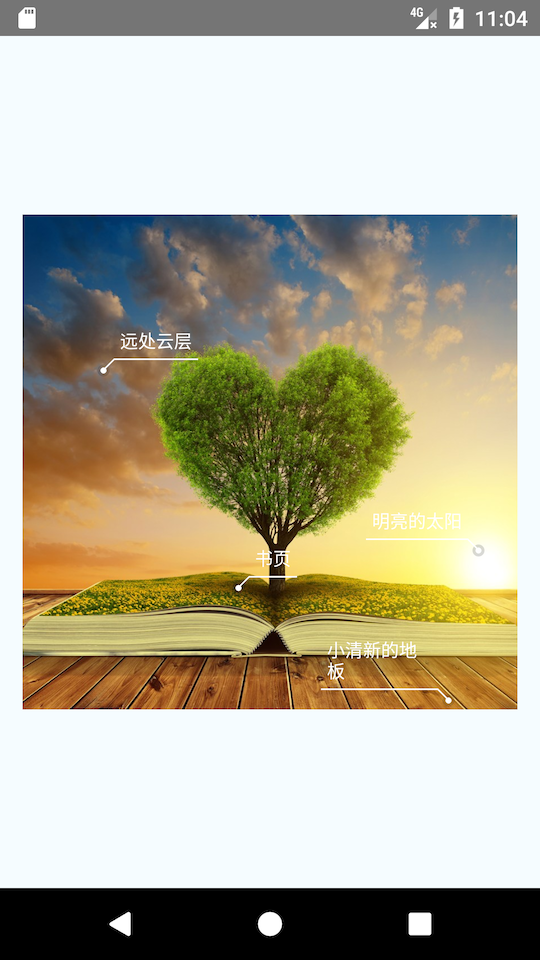
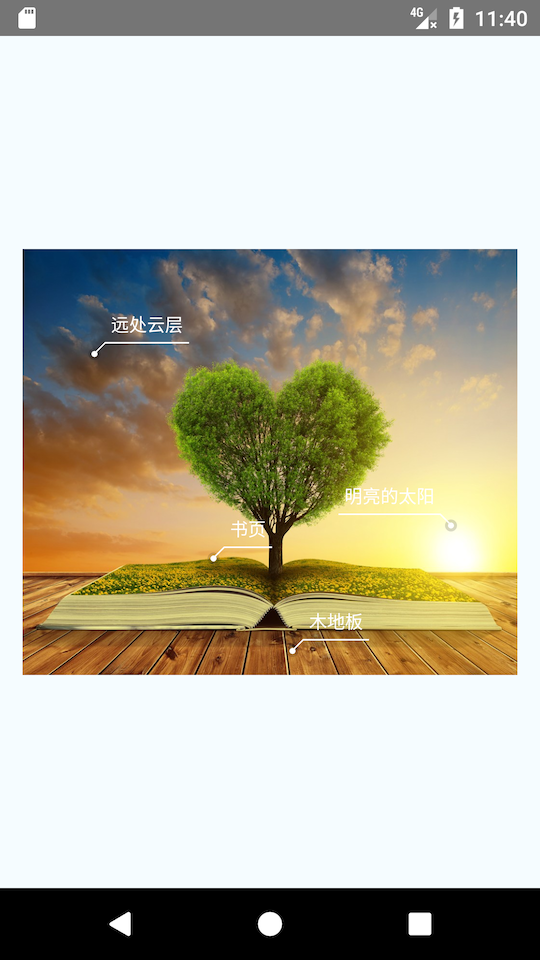
update readme and screen shot

diff --git a/README.md b/README.md
@@ -37,25 +37,48 @@ import {
     Image
 } from 'react-native';
 import AnchorView from "react-native-anchor-tag";
+const {width: screenW} = Dimensions.get('window');
 
 export default class RNAnchorTagDemo extends Component {
-    tagList = [
-        {name: '远处云层', x: 50, y: 100},
-        {name: '明亮的太阳', x: 300, y: 220},
-        {name: '书页', x: 140, y: 245},
-        {name: '小清新的地板', x: 280, y: 320}
-    ];
+    data = {
+        coverHeight: 646,   // source image height
+        coverWidth: 750,    // source image width
+        tagList: [
+            {name: '远处云层', x: 100, y: 150},
+            {name: '明亮的太阳', x: 640, y: 410},
+            {name: '书页', x: 280, y: 460},
+            {name: '木地板', x: 400, y: 600}
+        ]
+    };
 
     renderAnchorItem = (tag, key) => {
-        return <AnchorView key={key} anchor={tag}/>
+        const {coverWidth, coverHeight} = this.data;
+        const {x, y} = tag;
+
+        // expect image width
+        const imgWidth = screenW - 15 * 2;
+        // convert image height base on expect width
+        const imgHeight = imgWidth * coverHeight / coverWidth;
+
+        // convert anchor position base on the expect image layout
+        const convertX = x * imgWidth / coverWidth;
+        const convertY = y * imgHeight / coverHeight;
+
+        return <AnchorView key={key} anchor={{...tag, x: convertX, y: convertY}}/>
     };
 
     render() {
+        const {tagList, coverHeight, coverWidth} = this.data;
         const uri = 'http://img02.tooopen.com/images/20160509/tooopen_sy_161967094653.jpg';
+
+        // convert to expect image layout
+        const imgWidth = screenW - 15 * 2;
+        const imgHeight = imgWidth * coverHeight / coverWidth;
+
         return (
             <View style={styles.container}>
-                <Image style={styles.img} source={{uri}}>
-                    {this.tagList.map(this.renderAnchorItem)}
+                <Image style={{width: imgWidth, height: imgHeight}} source={{uri}}>
+                    {tagList.map(this.renderAnchorItem)}
                 </Image>
             </View>
         );
@@ -70,20 +93,6 @@ const styles = StyleSheet.create({
         backgroundColor: '#F5FCFF',
         padding: 15
     },
-    welcome: {
-        fontSize: 20,
-        textAlign: 'center',
-        margin: 10,
-    },
-    instructions: {
-        textAlign: 'center',
-        color: '#333333',
-        marginBottom: 5,
-    },
-    img: {
-        width: Dimensions.get('window').width - 15 * 2,
-        height: Dimensions.get('window').width - 15 * 2,
-    }
 });
 ```
 
